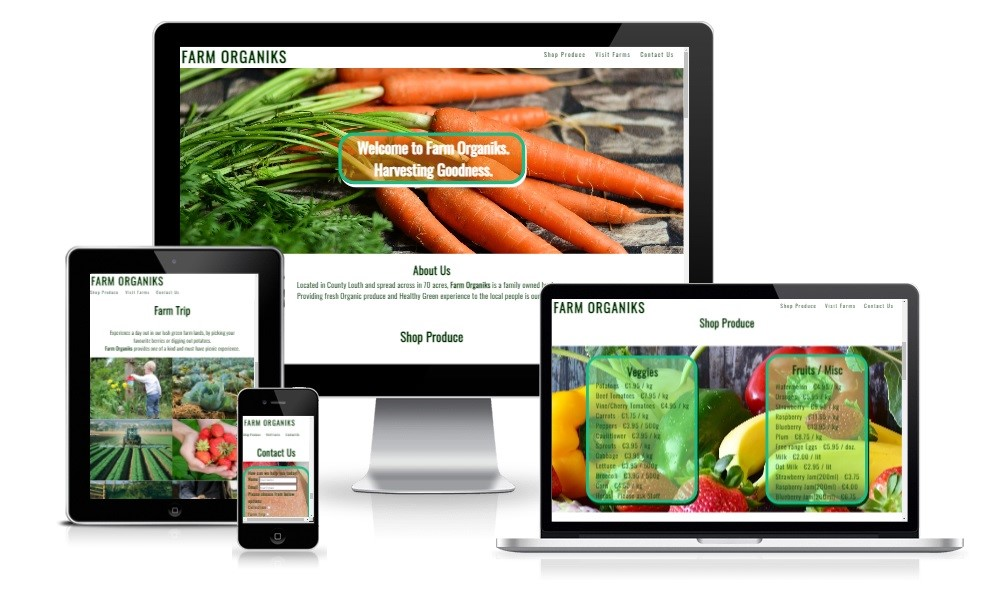
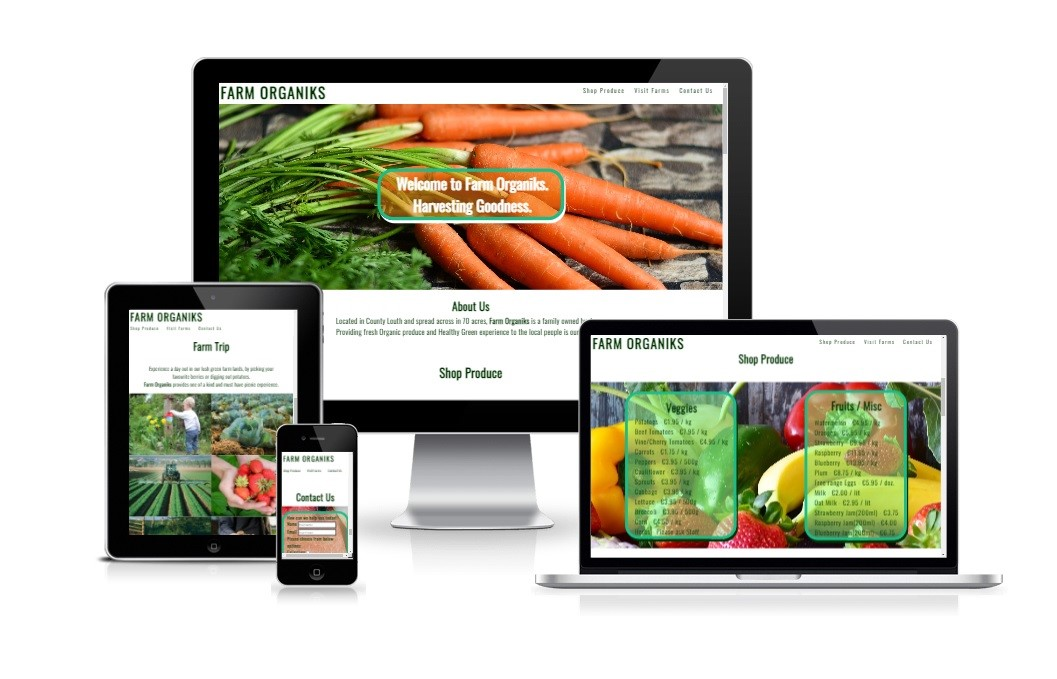
Add Manual testing to Readme

diff --git a/README.md b/README.md
@@ -129,6 +129,7 @@ The colour theme is based on the Farm Organiks logo which is a green color: #003
     3. Choose a radio button stating the purpose of the form filled.
     4. Text box with column and rows to enter a brief description. For eg. if a Collection order is placed, provide the names of produce or if Farm Trip booking is required, provide the date and time, with the number of attendees.
 
+*   When mouse is hovered on any text boxes in the form, the border changes its colour from black to green.
 
 *   The Form container has a border of different green shades similar to the other containers. The Form container is responsive as the screen size reduces, the form container's size also reflects accordingly. The Text box properties are responsive as well as the number of columns and rows reduces as the screen size reduces.
 
@@ -182,6 +183,60 @@ The website was tested on the following browsers:
 * Microsoft Edge : Version 104.0.1293.54 (Official build) (64-bit)
 
 * ## Manual Testing
+The following was manually tested and resulted in Pass:
+*   ### Navigation Bar
+    * The Farm Organiks Logo when clicked brings to the home page or top of the webpage.
+    * The Nav items 'Shop Produce', 'Visit Farms' and 'Contact Us' when clicked brings to the respective sections of the website.
+    * When mouse is hovered on the nav items, an underline appears for that respective link for easy navigation.
+    * The nav items are responsive in nature. For smaller screens 'Shop Produce', 'Visit Farms' and 'Contact Us' all comes below the 'FARM ORGANIKS' logo in a single line. They are also reduced in font size for very small screens.
+
+*   ### Hero Image and Welcome Message
+    * The Welcome Message is responsive for smaller screen sizes.
+
+*   ### Shop Produce
+    * The 'Veggies' and 'Fruits/Misc' menu sections are responsive to different media queries and align vertically when displayed on smaller screen sizes. The overall size of the menu box is also reduced for a very small screen size.
+
+*   ### Visit Farms
+    * The Gallery images are responsive to smaller screens sizes. As the screen size decreases the number of columns reduces from four to two and then to one for very small screens.
+    * Farm Videos when clicked plays the video as expected. They are also responsive to smaller screens as they become smaller in size.
+
+*   ### Contact Us
+    * The Form requires all fields to be filled before it allows submission.
+    * When Submit button is clicked it submits information to the Code Institute Form dump provided all fields are filled.
+    * When mouse is hovered on any text boxes in the form, the border changes its colour from black to green.
+    * The Text box properties are responsive as well as the number of columns and rows reduces as the screen size reduces.
+    * The Form container is responsive as the screen size reduces, the form container's size also reflects accordingly.
+
+*   ### Getting Here Location Map
+    * On the Location Map the plus/minus sign, Show Satelite Imagery, Keyboard shortcuts, Terms of Use, Reports a Map error and View Larger Map also works as expected. 
+    * Also View Larger Map works as expected. 
+    * The mouse Drag function also works as expected.
+    * The Location map container is responsive and its size reduces as the screen size reduces. It also aligns vertically under the Form when the screen size reduces.
+
+*   ### Footer
+    * All links for 'Stay in touch with us' social media open in a new target window.
+    * The Footer section is responsive as the 'Opening Hours' and Social Networks link align vertically when the screen size reduces.
+
+*   ## Bugs
+
+    * ### Fixed Bugs
+    Here are some of the bugs which were fixed during the making of the project.
+    1. The Gallery images were resized to fix the bottom aligning issue.
+      ![Gallery Error Image](/assets/images/readmeimages/GalleryImageErr.jpg "Gallery Error Image")
+
+    2. The Map iframe and container were resized so that the map can fit inside the box and be responsive.
+
+       ![Map Error Image](/assets/images/readmeimages/MapErr.jpg "Map Error Image")
+
+
+
+*   ### Known Bugs
+    * It is observed that upon scrolling down, the videos scrolls on top of the fixed navbar. It seems like a overflow issue.
+    ![Video Scroll Error](/assets/images/readmeimages/VideoScrollErr.jpg "Video Scroll Error")
+
+*   ## Future Implementation
+    * I would like to implement downloadable pdf files for Farm Trip Maps and Produce Menu for customers. 
+    * I would like to resolve the Known bug also where the video scrolls on top of the fixed navbar.
 
 # Deployment
 The website is deployed using GitHub Pages:
@@ -201,6 +256,7 @@ The website can be viewed here. [Farm Organiks](https://bijoykm.github.io/farmor
 *   Videos used were taken from [Youtube](https://www.youtube.com/).
 *   [Favicon](https://favicon.io/) generator was used to create Favicon.
 *   [Pic Resize](https://picresize.com/) was used to resize the images.
+*   [Am I Responsive](https://ui.dev/amiresponsive) was used to generate the website responsive image used in README.MD
 
 * ## Coding
 
